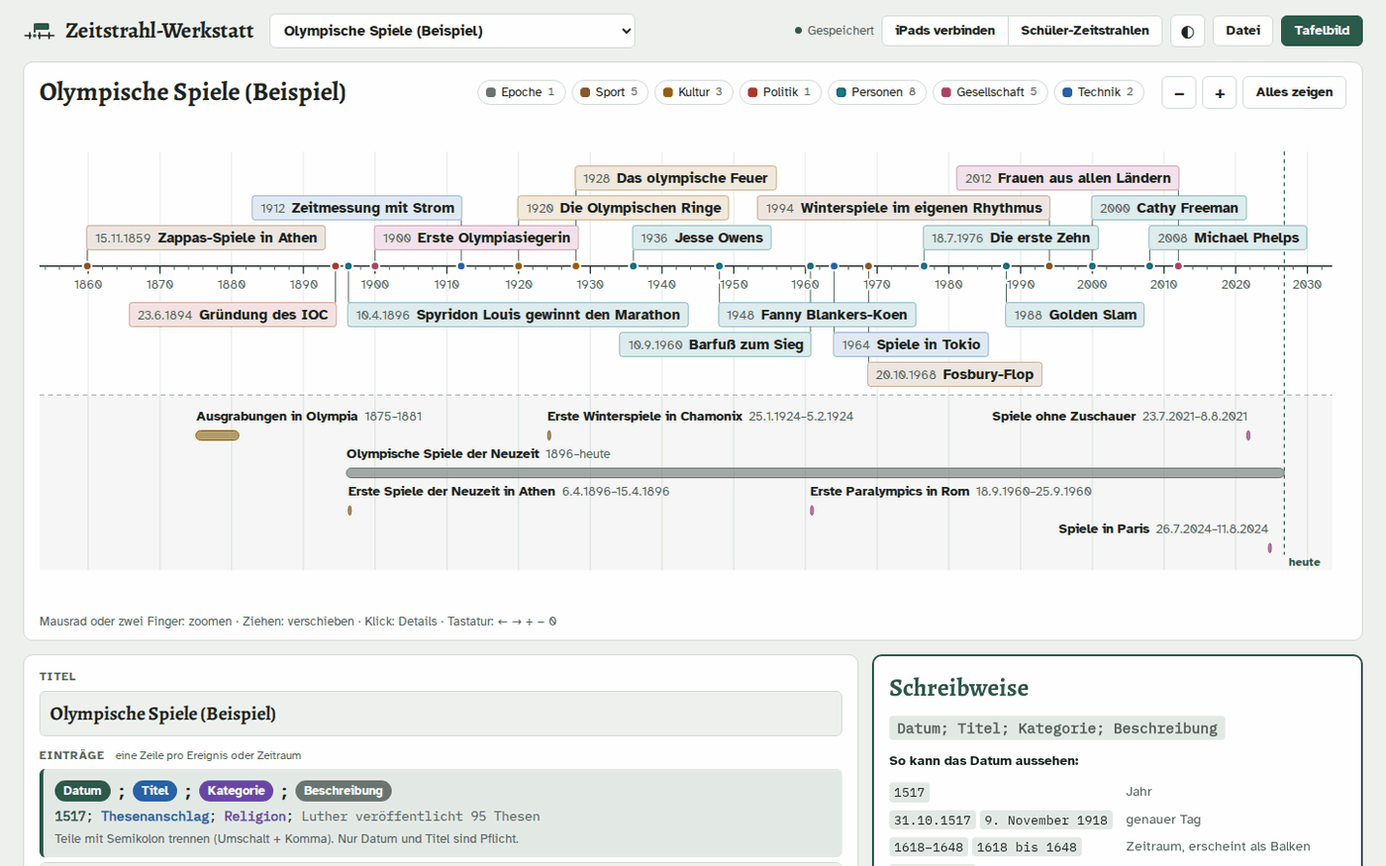
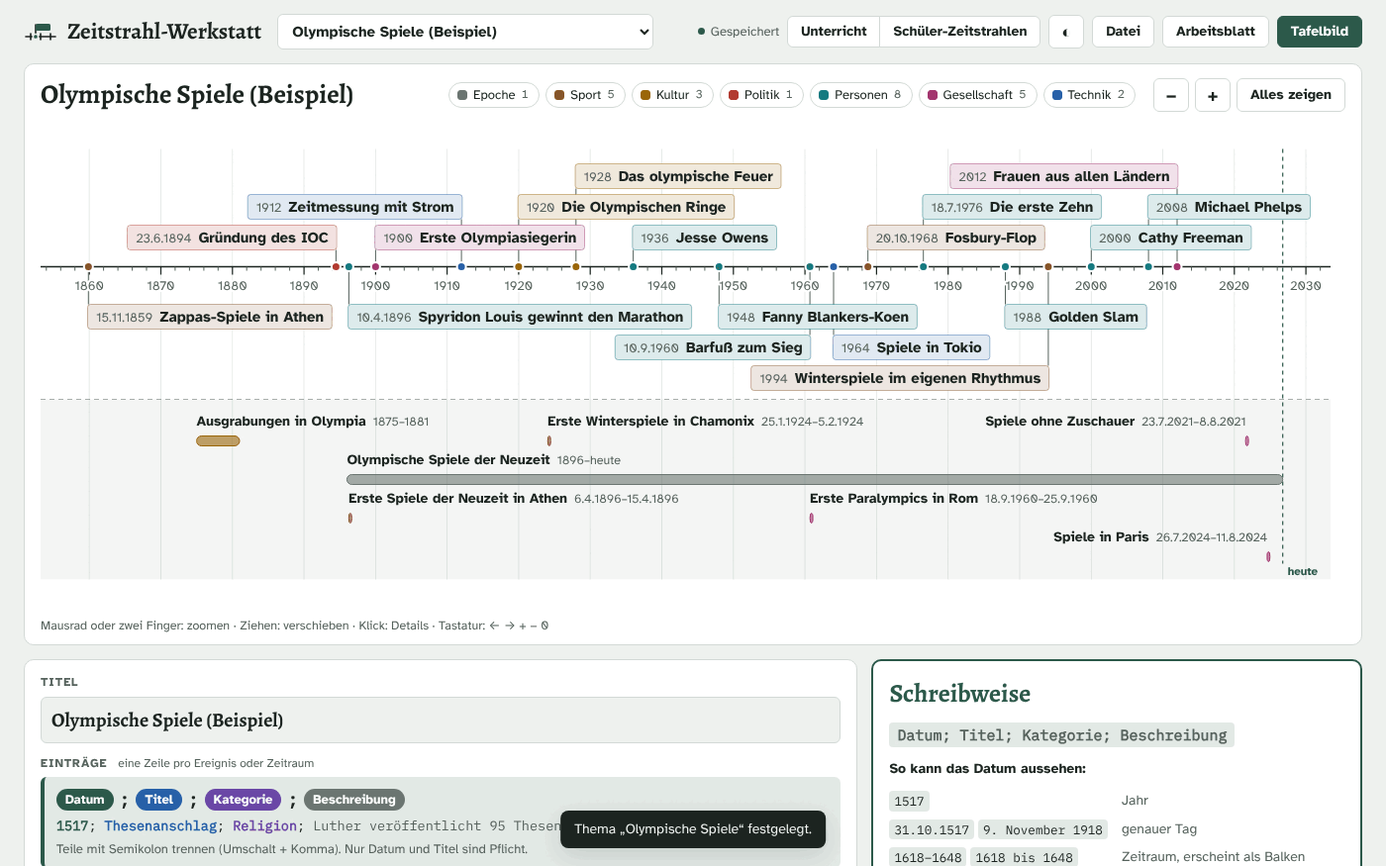
Menüs der Lehrkraft-Ansicht neu benennen und aufteilen
„iPads verbinden“ heißt jetzt „Unterricht“. Der Dialog ist in drei
Abschnitte gegliedert: Aufgabe, iPads verbinden, Während der Stunde.
„Am Lehrer-PC öffnen“ steht unten im Dialog.

Das Menü „Datei“ enthält nur noch Öffnen, Beispiel und Sichern. Bild und
Druck stehen im neuen Menü „Arbeitsblatt“.

README, Hilfetexte und die README-Bilder lehrkraft.png und
ipads-verbinden.png sind angepasst, die doppelte Nummer 10 im Ablauf ist
behoben.

Claude-Session: https://claude.ai/code/session_01NvYpLnwH3wWgDJEhyiCCeh

diff --git a/index.html b/index.html
@@ -29,7 +29,7 @@
       <span id="save-status" class="status" role="status" aria-live="polite"></span>
       <button type="button" class="linkbtn backup-due" id="backup-due" hidden>Jetzt sichern</button>
       <div class="klasse" id="klasse" role="group" aria-label="Klasse" hidden>
-        <button type="button" class="btn connect-btn">iPads verbinden</button>
+        <button type="button" class="btn connect-btn">Unterricht</button>
         <button type="button" class="btn" id="btn-abgaben">Schüler-Zeitstrahlen <span class="count" id="abgaben-count" hidden></span></button>
       </div>
       <a class="btn ghost" href="beitrag.html" target="_blank" rel="noopener" id="link-student">Schülerseite</a>
@@ -38,22 +38,23 @@
         <button type="button" id="btn-file" class="btn" aria-haspopup="menu" aria-expanded="false" aria-controls="file-menu">Datei</button>
         <div id="file-menu" class="menu-list" role="menu" hidden>
           <button type="button" role="menuitem" data-act="import">Öffnen … (.txt, .json, .csv, .zip)</button>
+          <button type="button" role="menuitem" data-act="open-sample">Beispiel öffnen …</button>
           <hr>
           <button type="button" role="menuitem" data-act="export-txt">Als Textdatei sichern (.txt)</button>
           <button type="button" role="menuitem" data-act="export-json">Mit Bildern sichern (.json)</button>
-          <hr>
-          <button type="button" role="menuitem" data-act="export-png">Ausschnitt als Bild sichern (PNG)</button>
-          <button type="button" role="menuitem" data-act="export-png-blank">Lückenbild fürs Arbeitsblatt (PNG)</button>
-          <hr>
-          <button type="button" role="menuitem" data-act="print">Zeitstrahl drucken (A4 quer)</button>
-          <button type="button" role="menuitem" data-act="print-blank">Lückenbild drucken (A4 quer)</button>
-          <hr>
           <button type="button" role="menuitem" data-act="export-backup">Alle Zeitstrahlen sichern (.zip)</button>
-          <button type="button" role="menuitem" data-act="open-sample">Beispiel öffnen …</button>
-          <hr class="zugang-only" hidden>
-          <button type="button" role="menuitem" data-act="zugang" class="zugang-only" hidden>Am Lehrer-PC öffnen …</button>
         </div>
         <input type="file" id="file-input" accept=".txt,.json,.csv,.tsv,.zip,text/plain,application/json,text/csv,application/zip" multiple hidden>
+      </div>
+      <div class="menu">
+        <button type="button" id="btn-sheet" class="btn" aria-haspopup="menu" aria-expanded="false" aria-controls="sheet-menu">Arbeitsblatt</button>
+        <div id="sheet-menu" class="menu-list" role="menu" hidden>
+          <button type="button" role="menuitem" data-act="export-png">Zeitstrahl als Bild (PNG)</button>
+          <button type="button" role="menuitem" data-act="print">Zeitstrahl drucken (A4 quer)</button>
+          <hr>
+          <button type="button" role="menuitem" data-act="export-png-blank">Lückenbild als Bild (PNG)</button>
+          <button type="button" role="menuitem" data-act="print-blank">Lückenbild drucken (A4 quer)</button>
+        </div>
       </div>
       <button type="button" class="btn ghost" id="btn-logout" hidden>Abmelden</button>
       <button type="button" id="btn-present" class="btn primary">Tafelbild</button>
@@ -115,7 +116,7 @@
       </div>
       <div class="present-right">
         <button type="button" class="btn ghost" id="btn-sort">Was kam zuerst?</button>
-        <button type="button" class="btn ghost connect-btn" hidden>iPads verbinden</button>
+        <button type="button" class="btn ghost connect-btn" hidden>Unterricht</button>
         <button type="button" class="btn ghost theme-btn">Farben: automatisch</button>
         <button type="button" class="btn" id="present-exit">Tafelbild beenden</button>
       </div>
@@ -189,7 +190,7 @@
       <p>Feste Farben haben Politik, Religion, Kultur, Technik, Wirtschaft, Gesellschaft, Personen und Epoche. Eigene Kategorien bekommen automatisch eine Farbe.</p>
       <details class="help-more">
         <summary>Weitere Hilfe</summary>
-      <p>Schülerinnen und Schüler bauen über <strong>iPads verbinden</strong> eigene Zeitstrahlen zum vorgegebenen Thema. Dort lassen sich auch Kategorien vorgeben und später ergänzen, dann wählen die iPads nur noch aus ihnen. Außerdem kannst du dort einen eigenen Zeitstrahl, z. B. eine Musterlösung, für die iPads sichtbar machen. Die Schüler können ihn ansehen, drucken und als Bild speichern, ihr eigener bleibt unverändert. Abgaben erscheinen oben in der Auswahl unter „Schüler: Thema“. Ohne Server speichert die <a href="beitrag.html" target="_blank" rel="noopener">Schülerseite</a> eine Datei, die hier über <strong>Datei → Öffnen</strong> eingelesen wird.</p>
+      <p>Schülerinnen und Schüler bauen eigene Zeitstrahlen zum Thema, das du unter <strong>Unterricht</strong> vorgibst. Dort steht auch der QR-Code für die iPads, und dort lassen sich auch Kategorien vorgeben und später ergänzen, dann wählen die iPads nur noch aus ihnen. Außerdem kannst du dort einen eigenen Zeitstrahl, z. B. eine Musterlösung, für die iPads sichtbar machen. Die Schüler können ihn ansehen, drucken und als Bild speichern, ihr eigener bleibt unverändert. Abgaben erscheinen oben in der Auswahl unter „Schüler: Thema“. Ohne Server speichert die <a href="beitrag.html" target="_blank" rel="noopener">Schülerseite</a> eine Datei, die hier über <strong>Datei → Öffnen</strong> eingelesen wird.</p>
       <p id="help-save">Alles wird nur in diesem Browser gespeichert. Als Sicherung: <strong>Datei → Alle Zeitstrahlen sichern</strong>. Zum Weitergeben: <strong>Datei → Mit Bildern sichern</strong>.</p>
       <p>Im Tafelbild blättern Pfeiltasten, Leertaste oder ein Presenter beim schrittweisen Aufdecken weiter. Ohne Aufdecken wechseln Bild auf/Bild ab (Presenter) zum nächsten Zeitstrahl.</p>
       </details>
@@ -211,49 +212,62 @@
 </dialog>
 
 <dialog id="connect" class="connect" aria-labelledby="connect-title">
-  <h2 id="connect-title">Thema vorgeben und iPads verbinden</h2>
-  <form class="task-form" id="task-form">
-    <div class="field">
-      <label for="task-thema">Thema für die Klasse</label>
-      <input id="task-thema" type="text" maxlength="140" autocomplete="off" placeholder="z. B. Reformation">
-    </div>
-    <div class="field">
-      <label for="task-auftrag">Arbeitsauftrag <span class="label-note">optional</span></label>
-      <textarea id="task-auftrag" rows="2" maxlength="1000" placeholder="z. B. Mindestens 6 Ereignisse, davon 2 mit Bild und Bildquelle."></textarea>
-    </div>
-    <div class="field task-kat">
-      <label for="task-kategorien">Kategorien <span class="label-note">optional, höchstens 8, mit Komma getrennt</span></label>
-      <div class="task-kat-row">
-        <input id="task-kategorien" type="text" maxlength="400" autocomplete="off" placeholder="z. B. Politik, Religion, Personen, Bauwerke">
-        <button type="button" class="btn" id="task-kat-uebernehmen">Aus meinem Zeitstrahl</button>
+  <h2 id="connect-title">Unterricht</h2>
+  <section class="connect-part" aria-labelledby="part-aufgabe">
+    <h3 id="part-aufgabe"><span class="part-num">1</span> Aufgabe</h3>
+    <form class="task-form" id="task-form">
+      <div class="field">
+        <label for="task-thema">Thema für die Klasse</label>
+        <input id="task-thema" type="text" maxlength="140" autocomplete="off" placeholder="z. B. Reformation">
       </div>
-      <span class="note">Mit Vorgabe wählen die iPads nur aus diesen Kategorien. Ohne Vorgabe tippen die Schüler eigene ein. Neue Kategorien am besten hinten anhängen, dann bleiben die Farben gleich.</span>
+      <div class="field">
+        <label for="task-auftrag">Arbeitsauftrag <span class="label-note">optional</span></label>
+        <textarea id="task-auftrag" rows="2" maxlength="1000" placeholder="z. B. Mindestens 6 Ereignisse, davon 2 mit Bild und Bildquelle."></textarea>
+      </div>
+      <div class="field task-kat">
+        <label for="task-kategorien">Kategorien <span class="label-note">optional, höchstens 8, mit Komma getrennt</span></label>
+        <div class="task-kat-row">
+          <input id="task-kategorien" type="text" maxlength="400" autocomplete="off" placeholder="z. B. Politik, Religion, Personen, Bauwerke">
+          <button type="button" class="btn" id="task-kat-uebernehmen">Aus meinem Zeitstrahl</button>
+        </div>
+        <span class="note">Mit Vorgabe wählen die iPads nur aus diesen Kategorien. Ohne Vorgabe tippen die Schüler eigene ein. Neue Kategorien am besten hinten anhängen, dann bleiben die Farben gleich.</span>
+      </div>
+      <div class="task-actions">
+        <button type="submit" class="btn primary">Thema festlegen</button>
+        <span class="task-state" id="task-state" role="status"></span>
+      </div>
+    </form>
+  </section>
+  <section class="connect-part" aria-labelledby="part-ipads">
+    <h3 id="part-ipads"><span class="part-num">2</span> iPads verbinden</h3>
+    <div class="connect-grid" id="connect-grid">
+      <div id="connect-qr" class="connect-qr"></div>
+      <div class="connect-text">
+        <p class="connect-step">Mit der Kamera des iPads den Code scannen</p>
+        <p class="connect-or">oder in Safari eingeben:</p>
+        <p class="connect-url" id="connect-url"></p>
+        <p class="connect-thema">Thema: <strong id="connect-thema"></strong></p>
+        <p class="connect-alt" id="connect-alt" hidden></p>
+        <p class="connect-hint">iPads und Laptop müssen im selben WLAN sein.</p>
+      </div>
     </div>
-    <div class="task-actions">
-      <button type="submit" class="btn primary">Thema festlegen</button>
+    <p id="connect-none" class="connect-none" hidden>Der Laptop ist mit keinem Netzwerk verbunden. Bitte mit dem WLAN verbinden und den Dialog erneut öffnen.</p>
+  </section>
+  <section class="connect-part" aria-labelledby="part-stunde">
+    <h3 id="part-stunde"><span class="part-num">3</span> Während der Stunde</h3>
+    <div class="freigabe-row">
+      <label for="task-freigabe">Zeitstrahl für die Schüler sichtbar</label>
+      <select id="task-freigabe"></select>
+      <span class="note">Die Schüler können ihn auf ihrer Seite ansehen, drucken und als Bild speichern. Ihr eigener Zeitstrahl bleibt dabei unverändert.</span>
+    </div>
+    <div class="sperre-row">
       <button type="button" class="btn" id="btn-sperre">Abgabe beenden</button>
-      <span class="task-state" id="task-state" role="status"></span>
+      <span class="note">Danach können die iPads nichts mehr speichern, z. B. vor dem Präsentieren.</span>
     </div>
-  </form>
-  <div class="freigabe-row">
-    <label for="task-freigabe">Zeitstrahl für die Schüler sichtbar</label>
-    <select id="task-freigabe"></select>
-    <span class="note">Die Schüler können ihn auf ihrer Seite ansehen, drucken und als Bild speichern. Ihr eigener Zeitstrahl bleibt dabei unverändert.</span>
-  </div>
-  <p class="sperre-note" id="sperre-note" hidden>Die iPads können gerade nichts mehr speichern. Zum Weiterarbeiten auf „Bearbeiten wieder erlauben“ klicken.</p>
-  <div class="connect-grid" id="connect-grid">
-    <div id="connect-qr" class="connect-qr"></div>
-    <div class="connect-text">
-      <p class="connect-step">Mit der Kamera des iPads den Code scannen</p>
-      <p class="connect-or">oder in Safari eingeben:</p>
-      <p class="connect-url" id="connect-url"></p>
-      <p class="connect-thema">Thema: <strong id="connect-thema"></strong></p>
-      <p class="connect-alt" id="connect-alt" hidden></p>
-      <p class="connect-hint">iPads und Laptop müssen im selben WLAN sein.</p>
-    </div>
-  </div>
-  <p id="connect-none" class="connect-none" hidden>Der Laptop ist mit keinem Netzwerk verbunden. Bitte mit dem WLAN verbinden und den Dialog erneut öffnen.</p>
+    <p class="sperre-note" id="sperre-note" hidden>Die iPads können gerade nichts mehr speichern. Zum Weiterarbeiten auf „Bearbeiten wieder erlauben“ klicken.</p>
+  </section>
   <div class="review-foot">
+    <button type="button" class="btn ghost zugang-only" id="connect-zugang" hidden>Am Lehrer-PC öffnen …</button>
     <button type="button" class="btn primary" id="connect-close">Schließen</button>
   </div>
 </dialog>
@@ -265,7 +279,7 @@
     <p class="connect-url" id="zugang-url"></p>
     <p class="connect-alt" id="zugang-alt" hidden></p>
     <p class="connect-none" id="zugang-none" hidden>Der Laptop ist mit keinem Netzwerk verbunden.</p>
-    <p>Nach dem Passwort erscheint dort dieselbe Lehrkraft-Ansicht wie hier, mit Tafelbild, iPads verbinden und den Schüler-Zeitstrahlen. Änderungen erscheinen nach wenigen Sekunden auf beiden Geräten.</p>
+    <p>Nach dem Passwort erscheint dort dieselbe Lehrkraft-Ansicht wie hier, mit Tafelbild, Unterricht und den Schüler-Zeitstrahlen. Änderungen erscheinen nach wenigen Sekunden auf beiden Geräten.</p>
     <p class="zugang-state" id="zugang-state" role="status"></p>
     <p class="zugang-note" id="zugang-how"></p>
     <p class="zugang-note">Die Verbindung im Schulnetz ist nicht verschlüsselt. Bitte ein Passwort wählen, das du sonst nirgends benutzt.</p>

diff --git a/js/app.js b/js/app.js
@@ -351,7 +351,7 @@
     if (!server.abgaben.length) {
       const p = document.createElement('p');
       p.className = 'empty-list';
-      p.textContent = 'Noch keine Schüler-Zeitstrahlen. Über „iPads verbinden“ kommt die Klasse auf die Schülerseite.';
+      p.textContent = 'Noch keine Schüler-Zeitstrahlen. Über „Unterricht“ kommt die Klasse auf die Schülerseite.';
       box.append(p);
       return;
     }
@@ -1914,40 +1914,47 @@
       applyTheme(shownTheme(theme) === 'dark' ? 'light' : 'dark', true);
     }));
 
-    // Datei-Menü
-    const fileBtn = $('btn-file');
-    const menu = $('file-menu');
-    const setMenu = (open) => {
-      menu.hidden = !open;
-      fileBtn.setAttribute('aria-expanded', String(open));
-      if (open) menu.querySelector('button').focus();
+    // Menüs „Datei“ und „Arbeitsblatt“
+    const menus = [...document.querySelectorAll('.menu')].map((box) => ({
+      btn: box.querySelector('[aria-haspopup="menu"]'),
+      list: box.querySelector('.menu-list'),
+    }));
+    const setMenu = (m, open) => {
+      m.list.hidden = !open;
+      m.btn.setAttribute('aria-expanded', String(open));
+      if (open) m.list.querySelector('button').focus();
     };
-    fileBtn.addEventListener('click', () => setMenu(menu.hidden));
+    menus.forEach((m) => {
+      m.btn.addEventListener('click', () => {
+        const open = m.list.hidden;
+        menus.forEach((o) => { if (o !== m) setMenu(o, false); });
+        setMenu(m, open);
+      });
+      m.list.addEventListener('keydown', (e) => {
+        const items = [...m.list.querySelectorAll('button:not([hidden])')];
+        const i = items.indexOf(document.activeElement);
+        if (e.key === 'Escape') { setMenu(m, false); m.btn.focus(); }
+        else if (e.key === 'ArrowDown') { e.preventDefault(); items[(i + 1) % items.length].focus(); }
+        else if (e.key === 'ArrowUp') { e.preventDefault(); items[(i - 1 + items.length) % items.length].focus(); }
+      });
+      m.list.addEventListener('click', (e) => {
+        const b = e.target.closest('[data-act]');
+        if (!b) return;
+        setMenu(m, false);
+        const act = b.dataset.act;
+        if (act === 'import') $('file-input').click();
+        else if (act === 'export-txt') exportTxt();
+        else if (act === 'export-json') exportJson();
+        else if (act === 'export-backup') exportAll();
+        else if (act === 'export-png') exportPng(false);
+        else if (act === 'export-png-blank') exportPng(true);
+        else if (act === 'print') printTimeline(false);
+        else if (act === 'print-blank') printTimeline(true);
+        else if (act === 'open-sample') openSamples();
+      });
+    });
     document.addEventListener('click', (e) => {
-      if (!menu.hidden && !e.target.closest('.menu')) setMenu(false);
-    });
-    menu.addEventListener('keydown', (e) => {
-      const items = [...menu.querySelectorAll('button:not([hidden])')];
-      const i = items.indexOf(document.activeElement);
-      if (e.key === 'Escape') { setMenu(false); fileBtn.focus(); }
-      else if (e.key === 'ArrowDown') { e.preventDefault(); items[(i + 1) % items.length].focus(); }
-      else if (e.key === 'ArrowUp') { e.preventDefault(); items[(i - 1 + items.length) % items.length].focus(); }
-    });
-    menu.addEventListener('click', (e) => {
-      const b = e.target.closest('[data-act]');
-      if (!b) return;
-      setMenu(false);
-      const act = b.dataset.act;
-      if (act === 'import') $('file-input').click();
-      else if (act === 'export-txt') exportTxt();
-      else if (act === 'export-json') exportJson();
-      else if (act === 'export-backup') exportAll();
-      else if (act === 'export-png') exportPng(false);
-      else if (act === 'export-png-blank') exportPng(true);
-      else if (act === 'print') printTimeline(false);
-      else if (act === 'print-blank') printTimeline(true);
-      else if (act === 'open-sample') openSamples();
-      else if (act === 'zugang') openZugang();
+      if (!e.target.closest('.menu')) menus.forEach((m) => { if (!m.list.hidden) setMenu(m, false); });
     });
     $('empty-sample').addEventListener('click', openSamples);
     $('samples-close').addEventListener('click', () => $('samples').close());
@@ -1980,6 +1987,7 @@
     $('abgaben-close').addEventListener('click', () => $('abgaben').close());
     document.querySelectorAll('.connect-btn').forEach((b) => b.addEventListener('click', openConnect));
     $('connect-close').addEventListener('click', () => $('connect').close());
+    $('connect-zugang').addEventListener('click', () => { $('connect').close(); openZugang(); });
     $('task-form').addEventListener('submit', saveTask);
     $('task-kat-uebernehmen').addEventListener('click', takeOwnKategorien);
     $('task-freigabe').addEventListener('change', saveFreigabe);

diff --git a/css/style.css b/css/style.css
@@ -219,7 +219,7 @@ textarea:focus-visible,
   outline-offset: 2px;
 }
 
-/* ---------- Datei-Menü ---------- */
+/* ---------- Menüs „Datei“ und „Arbeitsblatt“ ---------- */
 
 .menu { position: relative; }
 .menu-list {
@@ -882,7 +882,24 @@ body.present .detail-img { max-height: 46vh; }
 .connect-thema { font-size: 17px; }
 .connect-alt, .connect-hint { font-size: 14.5px; color: var(--ink-soft); }
 .connect-none { color: var(--warn); font-weight: 700; }
-.connect .review-foot { margin: 18px -24px 0; }
+.connect .review-foot { margin: 18px -24px 0; position: sticky; bottom: 0; background: var(--sheet); }
+.connect .review-foot .zugang-only { margin-right: auto; }
+
+/* Dialog „Unterricht“: drei Abschnitte */
+.connect-part { display: grid; gap: 12px; padding: 16px 0; border-top: 1px solid var(--rule); }
+.connect-part h3 { display: flex; align-items: center; gap: 10px; margin: 0; font-size: 17px; font-weight: 700; }
+.part-num {
+  display: inline-grid;
+  place-items: center;
+  width: 26px;
+  height: 26px;
+  border-radius: 50%;
+  font-size: 14px;
+  color: var(--sheet);
+  background: var(--ink);
+}
+.sperre-row { display: flex; flex-wrap: wrap; align-items: center; gap: 6px 12px; }
+.sperre-row .note { margin: 0; font-size: 13.5px; color: var(--ink-soft); }
 
 /* ---------- Schülerseite: eigener Zeitstrahl ---------- */
 
@@ -1008,9 +1025,6 @@ body.present .detail-img { max-height: 46vh; }
   grid-template-columns: minmax(0, 1fr) minmax(0, 1.4fr);
   gap: 10px 16px;
   align-items: start;
-  padding-bottom: 16px;
-  margin-bottom: 16px;
-  border-bottom: 1px solid var(--rule);
 }
 @media (max-width: 720px) { .task-form { grid-template-columns: minmax(0, 1fr); } }
 .task-form input[type="text"] { font-size: 18px; font-weight: 700; }
@@ -1028,9 +1042,6 @@ body.present .detail-img { max-height: 46vh; }
   flex-wrap: wrap;
   align-items: center;
   gap: 6px 12px;
-  padding-bottom: 16px;
-  margin-bottom: 16px;
-  border-bottom: 1px solid var(--rule);
 }
 .freigabe-row label { font-size: 14px; font-weight: 700; }
 .freigabe-row select { flex: 1 1 240px; width: auto; min-width: 0; }

diff --git a/js/freigabe.js b/js/freigabe.js
@@ -2,7 +2,7 @@
  * Zeitstrahl-Werkstatt · Zeitstrahl der Lehrkraft auf der Schülerseite
  *
  * Die Lehrkraft kann einen ihrer Zeitstrahlen für die iPads sichtbar machen
- * („Thema vorgeben und iPads verbinden“). Die Schüler sehen ihn hier nur an,
+ * (Dialog „Unterricht“). Die Schüler sehen ihn hier nur an,
  * drucken ihn oder speichern ihn als Bild. Er wird nie in den eigenen Zeitstrahl,
  * den Speicher des iPads oder die Abgabe geschrieben.
  */

diff --git a/README.md b/README.md
@@ -27,23 +27,23 @@ Der Laptop der Lehrkraft ist dabei der Server. Es gibt keine Cloud und keine Kon
    `npm start` funktioniert genauso.
 
    Es öffnet sich ein Fenster mit den Adressen, und der Browser zeigt die Lehrkraft-Ansicht unter `http://localhost:8080`. **Das Fenster während der Stunde offen lassen.**
-2. **Thema vorgeben:** Auf **iPads verbinden** klicken, das Thema eintragen (z. B. „Reformation“), auf Wunsch einen kurzen Arbeitsauftrag und bis zu acht Kategorien (z. B. „Personen, Religion, Politik“), dann **Thema festlegen** klicken. Kategorien lassen sich später ergänzen, die iPads übernehmen sie nach spätestens 20 Sekunden. Darunter erscheint ein großer QR-Code für den Beamer.
+2. **Thema vorgeben:** Auf **Unterricht** klicken und unter **Aufgabe** das Thema eintragen (z. B. „Reformation“), auf Wunsch einen kurzen Arbeitsauftrag und bis zu acht Kategorien (z. B. „Personen, Religion, Politik“), dann **Thema festlegen** klicken. Kategorien lassen sich später ergänzen, die iPads übernehmen sie nach spätestens 20 Sekunden. Darunter, bei **iPads verbinden**, steht ein großer QR-Code für den Beamer.
 3. **iPads verbinden:** Die Schülerinnen und Schüler scannen den QR-Code mit der Kamera-App und landen auf der Schülerseite. Dort stehen schon das Thema und der Arbeitsauftrag.
 4. **Zeitstrahl bauen:** Jede Gruppe trägt ihre Vornamen und auf Wunsch einen Titel ein und legt dann Ereignisse an: Datum, Ereignis, Kategorie, Beschreibung und ein Foto (direkt fotografiert oder aus der Mediathek, die Bildquelle ist dann Pflicht). Hat die Lehrkraft Kategorien vorgegeben, tippt die Gruppe eine davon an, statt selbst eine einzutragen. Das Formular zeigt sofort, wie das Datum verstanden wurde („Erkannt: 24. Oktober 1648 · vor 378 Jahren“). Der eigene Zeitstrahl wächst oben live mit; Antippen eines Ereignisses öffnet es zum Bearbeiten.
 
-   <img src="docs/bilder/ipads-verbinden.png" width="58%" alt="Dialog „Thema vorgeben und iPads verbinden“ mit Thema, Arbeitsauftrag und großem QR-Code"> <img src="docs/bilder/schuelerseite.png" width="38%" alt="Schülerseite auf dem iPad: Thema, Arbeitsauftrag, Vornamen der Gruppe und der eigene Zeitstrahl">
+   <img src="docs/bilder/ipads-verbinden.png" width="58%" alt="Dialog „Unterricht“ mit den Abschnitten Aufgabe, iPads verbinden mit großem QR-Code und Während der Stunde"> <img src="docs/bilder/schuelerseite.png" width="38%" alt="Schülerseite auf dem iPad: Thema, Arbeitsauftrag, Vornamen der Gruppe und der eigene Zeitstrahl">
 
 5. **Zwischenspeichern:** Beim ersten **Zwischenspeichern** bekommt die Gruppe einen **Code** aus fünf Zeichen (z. B. `K7M2X`), den sie aufschreibt. Danach speichert die Seite alle 15 Sekunden automatisch. In der nächsten Stunde, auch auf einem anderen iPad, tippt die Gruppe den Code unter „Mit eurem Code weiterarbeiten“ ein und macht weiter.
 6. **Abgeben:** Ist der Zeitstrahl fertig, tippt die Gruppe auf **Fertig – abgeben**. Verbessern und erneut abgeben geht jederzeit. Fällt das WLAN aus, sagt die Seite das deutlich; die Eingaben bleiben auf dem iPad und werden gespeichert, sobald die Verbindung wieder da ist. Eine Rückmeldung der Lehrkraft erscheint oben auf der Seite.
-7. **Abgabe beenden:** Vor dem Präsentieren unter **iPads verbinden** auf **Abgabe beenden** klicken. Dann kann keine Gruppe mehr speichern, und auf den iPads steht, dass die Abgabe beendet ist. **Bearbeiten wieder erlauben** hebt das auf.
+7. **Abgabe beenden:** Vor dem Präsentieren unter **Unterricht** bei **Während der Stunde** auf **Abgabe beenden** klicken. Dann kann keine Gruppe mehr speichern, und auf den iPads steht, dass die Abgabe beendet ist. **Bearbeiten wieder erlauben** hebt das auf.
 8. **Rückmeldung geben:** In der Übersicht **Schüler-Zeitstrahlen** hat jede Gruppe einen Knopf **Rückmeldung**. Der Text erscheint auf dem iPad der Gruppe, sobald sie mit ihrem Code arbeitet, spätestens nach wenigen Sekunden.
 9. **Abgaben ansehen:** Bei der Lehrkraft zählt der Knopf **Schüler-Zeitstrahlen** die Abgaben mit, neue Abgaben werden kurz angezeigt. Die Übersicht zeigt je Gruppe den Stand („in Arbeit“ oder „abgegeben“) und den Code, falls eine Gruppe ihn vergessen hat. Alle Zeitstrahlen stehen außerdem oben in der Auswahlliste unter „Schüler: Reformation“. Ist ein Schüler-Zeitstrahl ausgewählt, zeigt die rechte Spalte das Thema, den Arbeitsauftrag und alle Gruppen dazu, per Klick wechselt man zur nächsten Gruppe.
-10. **Eigenen Zeitstrahl zeigen:** Unter **iPads verbinden** bei **Zeitstrahl für die Schüler sichtbar** einen eigenen Zeitstrahl wählen, z. B. eine Musterlösung. Auf den iPads erscheint nach spätestens 20 Sekunden die Karte **Zeitstrahl eurer Lehrkraft**. Die Gruppen können ihn ansehen, Ereignisse antippen, ihn drucken oder als PDF und als Bild speichern. Ihr eigener Zeitstrahl bleibt dabei unverändert. Änderungen der Lehrkraft erscheinen von selbst, mit **keiner** verschwindet die Karte wieder.
-10. **Präsentieren:** Einen Schüler-Zeitstrahl auswählen und **Tafelbild** klicken. Mit **Nächster Zeitstrahl** (oder „Bild ab“ am Presenter) geht es zur nächsten Gruppe desselben Themas. **Schrittweise aufdecken** funktioniert für jeden Zeitstrahl. **Was kam zuerst?** mischt die Ereignisse des gezeigten Zeitstrahls; die Klasse bringt sie an der Tafel in die richtige Reihenfolge, **Prüfen** zeigt, was schon stimmt.
+10. **Eigenen Zeitstrahl zeigen:** Unter **Unterricht** bei **Zeitstrahl für die Schüler sichtbar** einen eigenen Zeitstrahl wählen, z. B. eine Musterlösung. Auf den iPads erscheint nach spätestens 20 Sekunden die Karte **Zeitstrahl eurer Lehrkraft**. Die Gruppen können ihn ansehen, Ereignisse antippen, ihn drucken oder als PDF und als Bild speichern. Ihr eigener Zeitstrahl bleibt dabei unverändert. Änderungen der Lehrkraft erscheinen von selbst, mit **keiner** verschwindet die Karte wieder.
+11. **Präsentieren:** Einen Schüler-Zeitstrahl auswählen und **Tafelbild** klicken. Mit **Nächster Zeitstrahl** (oder „Bild ab“ am Presenter) geht es zur nächsten Gruppe desselben Themas. **Schrittweise aufdecken** funktioniert für jeden Zeitstrahl. **Was kam zuerst?** mischt die Ereignisse des gezeigten Zeitstrahls; die Klasse bringt sie an der Tafel in die richtige Reihenfolge, **Prüfen** zeigt, was schon stimmt.
 
     ![Tafelbild am Beamer in den Tafel-Farben, unten die Knöpfe zum schrittweisen Aufdecken und für die Übung „Was kam zuerst?“](docs/bilder/tafelbild.png)
 
-11. **Behalten:** Mit **In meine Zeitstrahlen kopieren** wird eine Schülerarbeit zu einem eigenen, bearbeitbaren Zeitstrahl. **Abgabe löschen** verschiebt sie ins Archiv. Ist die Schülerseite dazu noch offen, speichert sie nicht einfach weiter: Die Gruppe sieht, dass die Lehrkraft den Zeitstrahl gelöscht hat, und kann ihn auf Wunsch als neuen Zeitstrahl mit neuem Code speichern.
+12. **Behalten:** Mit **In meine Zeitstrahlen kopieren** wird eine Schülerarbeit zu einem eigenen, bearbeitbaren Zeitstrahl. **Abgabe löschen** verschiebt sie ins Archiv. Ist die Schülerseite dazu noch offen, speichert sie nicht einfach weiter: Die Gruppe sieht, dass die Lehrkraft den Zeitstrahl gelöscht hat, und kann ihn auf Wunsch als neuen Zeitstrahl mit neuem Code speichern.
 12. **Beenden:** Das Server-Fenster schließen.
 
 ### Tafelbild am Lehrer-PC, wenn der Laptop nicht am Beamer hängt
@@ -57,8 +57,8 @@ Hängt nur der Lehrer-PC am Beamer oder Smartboard, öffnet man dort dieselbe Le
    ```
 
    Das klappt auch per SSH auf einem Server ohne Bildschirm, z. B. `node server.js --passwort --kein-browser`.
-2. **Am Lehrer-PC:** Im Browser die Adresse eingeben, z. B. `http://192.168.178.23:8080/lehrkraft`, und mit dem Passwort anmelden. Die Adresse steht im Server-Fenster und am Laptop unter **Datei → Am Lehrer-PC öffnen …**.
-3. Dort geht alles wie am Laptop: Tafelbild, iPads verbinden mit QR-Code, Thema vorgeben, Schüler-Zeitstrahlen, Bearbeiten. Zum Schluss oben auf **Abmelden** klicken.
+2. **Am Lehrer-PC:** Im Browser die Adresse eingeben, z. B. `http://192.168.178.23:8080/lehrkraft`, und mit dem Passwort anmelden. Die Adresse steht im Server-Fenster und am Laptop unten im Dialog **Unterricht** unter **Am Lehrer-PC öffnen …**.
+3. Dort geht alles wie am Laptop: Tafelbild, Unterricht mit Thema und QR-Code, Schüler-Zeitstrahlen, Bearbeiten. Zum Schluss oben auf **Abmelden** klicken.
 
 Gespeichert wird immer auf dem Laptop im Ordner `daten`, auf dem Lehrer-PC bleibt nichts liegen. Änderungen an einem Gerät erscheinen nach wenigen Sekunden auf dem anderen. Ändern beide gleichzeitig, gilt die zuerst gespeicherte Änderung, und das andere Gerät sagt Bescheid. Welcher Zeitstrahl gerade gezeigt wird, merkt sich jedes Gerät selbst: Ein Wechsel am Laptop schaltet das Tafelbild am Lehrer-PC nicht um.
 
@@ -88,7 +88,7 @@ Der Browser merkt sich Daten getrennt je Port. Nach einem Wechsel holt die Lehrk
 
 ## Ohne Server
 
-`index.html` funktioniert auch per Doppelklick, ganz ohne Server, z. B. zum Vorbereiten zu Hause. Dann fehlen nur „iPads verbinden“ und die Schüler-Zeitstrahlen. Auch die Schülerseite `beitrag.html` läuft per Doppelklick: Dort tragen die Schüler das Thema selbst ein und speichern ihren Zeitstrahl als Datei. Mit **Datei öffnen und weiterarbeiten** machen sie in der nächsten Stunde dort weiter. Die Lehrkraft liest die Datei über **Datei → Öffnen** ein.
+`index.html` funktioniert auch per Doppelklick, ganz ohne Server, z. B. zum Vorbereiten zu Hause. Dann fehlen nur „Unterricht“ und die Schüler-Zeitstrahlen. Auch die Schülerseite `beitrag.html` läuft per Doppelklick: Dort tragen die Schüler das Thema selbst ein und speichern ihren Zeitstrahl als Datei. Mit **Datei öffnen und weiterarbeiten** machen sie in der nächsten Stunde dort weiter. Die Lehrkraft liest die Datei über **Datei → Öffnen** ein.
 
 **Wichtig:** Der Browser speichert die Zeitstrahlen getrennt nach Adresse. Was unter `http://localhost:8080` angelegt wurde, erscheint nicht beim Doppelklick auf `index.html` und umgekehrt. Zum Übertragen **Datei → Alle Zeitstrahlen sichern** und auf der anderen Seite **Datei → Öffnen** verwenden.
 
@@ -111,7 +111,7 @@ Der Browser merkt sich Daten getrennt je Port. Nach einem Wechsel holt die Lehrk
 | Details | Klick auf einen Eintrag zeigt Datum, „vor … Jahren“, Dauer, Beschreibung, Bild, Verfasser und Bildquelle. Bilder lassen sich dort auch selbst hinzufügen. |
 | Tafelbild | Vollbild für den Beamer, große Schrift. **Schrittweise aufdecken** blättert in zeitlicher Reihenfolge (Pfeiltasten, Leertaste oder Presenter). |
 | Farben | Automatisch, hell oder „Tafel“ (dunkel mit Kreidefarben), umschaltbar über den Knopf ◐ neben „Datei“ und im Tafelbild. |
-| Arbeitsblatt | Sichtbaren Ausschnitt als PNG sichern oder über **Datei → Zeitstrahl drucken** direkt auf A4 quer drucken. Bild und Druck sehen gleich aus: Kopf mit Titel, Rahmen, Kategorien und Datum. Das **Lückenbild** zeigt an denselben Stellen nur die Daten mit Leerzeilen zum Ausfüllen, so passt das Bild als Lösung dazu. Auch die Schüler sichern ihren eigenen Zeitstrahl auf der Schülerseite als Bild oder drucken ihn (auf dem iPad im Druckfenster auch als PDF). |
+| Arbeitsblatt | Im Menü **Arbeitsblatt** den sichtbaren Ausschnitt als PNG sichern oder direkt auf A4 quer drucken. Bild und Druck sehen gleich aus: Kopf mit Titel, Rahmen, Kategorien und Datum. Das **Lückenbild** zeigt an denselben Stellen nur die Daten mit Leerzeilen zum Ausfüllen, so passt das Bild als Lösung dazu. Auch die Schüler sichern ihren eigenen Zeitstrahl auf der Schülerseite als Bild oder drucken ihn (auf dem iPad im Druckfenster auch als PDF). |
 | Übung | **Was kam zuerst?** im Tafelbild: Die Ereignisse stehen gemischt, die Klasse sortiert sie per Pfeil oder Ziehen, **Prüfen** und **Lösung zeigen** helfen weiter. |
 | Schüler-Zeitstrahlen | Thema und Arbeitsauftrag vorgeben, Abgabe beenden, je Gruppe eine Rückmeldung schreiben, Abgaben mit Stand und Code im Überblick, im Tafelbild nacheinander zeigen, in eigene Zeitstrahlen kopieren. |
 | Speichern | Automatisch im Browser und, wenn der Server läuft, zusätzlich je Zeitstrahl als Datei in `daten/zeitstrahlen/` mit Tageskopien. Alle sichern als ZIP. Einlesen von .txt, .json, .csv und .zip. |
